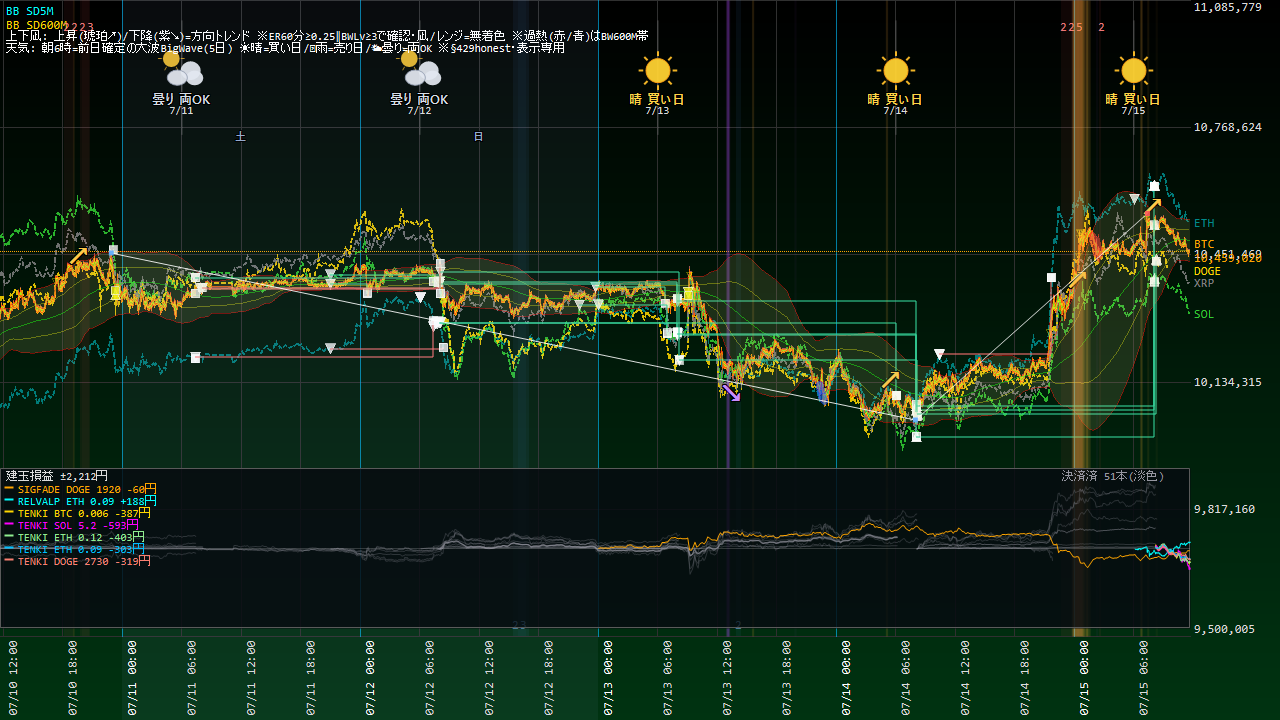
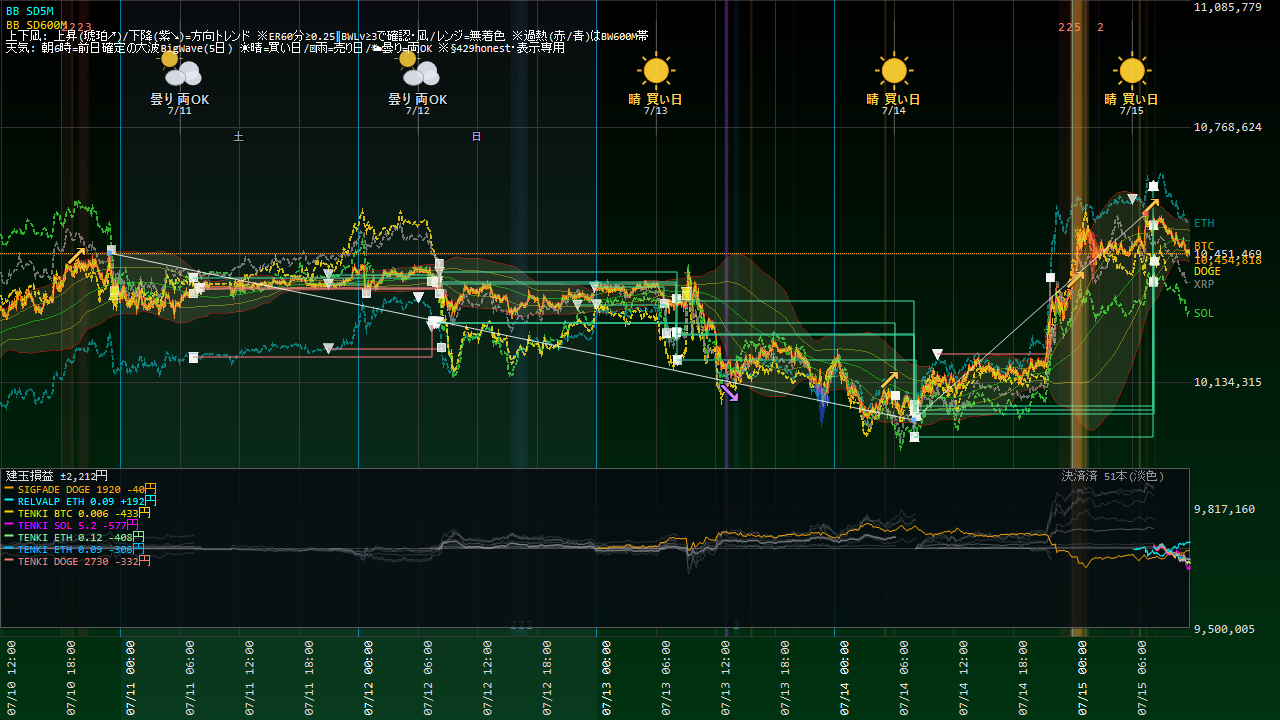
Coin100S 運用状況更新 07-15 11:53

diff --git a/coin100s-795hc4jfv8/index.html b/coin100s-795hc4jfv8/index.html
@@ -14,16 +14,16 @@ a{color:#60a5fa;text-decoration:none} a:hover{text-decoration:underline}
 .meta{color:#94a3b8;font-size:13px}</style>
 <script>setTimeout(function(){location.replace(location.pathname+"?t="+Date.now());},300000);</script></head><body>
 <h1>Coin100S ダッシュボード</h1>
-<p class="meta">スナップショット: 2026-07-15 11:47:04(自動リロード・最新化)</p>
+<p class="meta">スナップショット: 2026-07-15 11:53:04(自動リロード・最新化)</p>
 <div class="cards">
 <div class="card">建玉数<div class="v">7</div></div>
 <div class="card">本日損益<div class="v pos">+7,523円</div></div>
-<div class="card">評価損益<div class="v neg">-1,847円</div></div>
+<div class="card">評価損益<div class="v neg">-1,902円</div></div>
 </div>
 <h2>現在の建玉</h2>
-<table><tr><th>銘柄</th><th>側</th><th>数量</th><th>建値</th><th>含損益</th><th>レッグ</th></tr><tr><td>BTC_JPY</td><td>BUY</td><td>0.006</td><td>@10,526,974</td><td>-387円</td><td>TENKI5D_REV_BTC</td></tr><tr><td>DOGE_JPY</td><td>BUY</td><td>2730</td><td>@12</td><td>-331円</td><td>TENKI5D_REV_DOGE</td></tr><tr><td>DOGE_JPY</td><td>SELL</td><td>1920</td><td>@12</td><td>-29円</td><td>SIGFADE_DOGE</td></tr><tr><td>ETH_JPY</td><td>BUY</td><td>0.09</td><td>@305,729</td><td>-286円</td><td>TENKI5D_REV_ETH</td></tr><tr><td>ETH_JPY</td><td>BUY</td><td>0.12</td><td>@305,723</td><td>-381円</td><td>TENKI5D_REV_ETH</td></tr><tr><td>ETH_JPY</td><td>SELL</td><td>0.09</td><td>@304,456</td><td>+171円</td><td>RELVALP_SELL</td></tr><tr><td>SOL_JPY</td><td>BUY</td><td>5.2</td><td>@12,601</td><td>-604円</td><td>TENKI5D_REV_SOL</td></tr></table>
+<table><tr><th>銘柄</th><th>側</th><th>数量</th><th>建値</th><th>含損益</th><th>レッグ</th></tr><tr><td>BTC_JPY</td><td>BUY</td><td>0.006</td><td>@10,526,974</td><td>-433円</td><td>TENKI5D_REV_BTC</td></tr><tr><td>DOGE_JPY</td><td>BUY</td><td>2730</td><td>@12</td><td>-331円</td><td>TENKI5D_REV_DOGE</td></tr><tr><td>DOGE_JPY</td><td>SELL</td><td>1920</td><td>@12</td><td>-29円</td><td>SIGFADE_DOGE</td></tr><tr><td>ETH_JPY</td><td>BUY</td><td>0.09</td><td>@305,729</td><td>-284円</td><td>TENKI5D_REV_ETH</td></tr><tr><td>ETH_JPY</td><td>BUY</td><td>0.12</td><td>@305,723</td><td>-377円</td><td>TENKI5D_REV_ETH</td></tr><tr><td>ETH_JPY</td><td>SELL</td><td>0.09</td><td>@304,456</td><td>+168円</td><td>RELVALP_SELL</td></tr><tr><td>SOL_JPY</td><td>BUY</td><td>5.2</td><td>@12,601</td><td>-593円</td><td>TENKI5D_REV_SOL</td></tr></table>
 <p><a href="status.html"><b>▶ 運用状況の詳細(チャート・本日の取引・レジーム)</b></a></p>
 <h2>日報一覧</h2>
 <table><tr><th>取引日</th><th>実現損益</th><th>総括</th></tr><tr><td><a href='reports/20260714_Coin100S日報.html'>2026-07-14</a></td><td class="pos">+0円</td><td class='meta'>実取引: 新規6件/決済18件、実現損益 +0円。シグナル却下5件（最多: BW10M3_5M／トレンド方向ゲート(N分傾き上と不一致=逆張り方向のfade禁止)）。⚠警告/エラー 9件（要確認）。</td></tr><tr><td><a href='reports/20260713_Coin100S日報.html'>2026-07-13</a></td><td class="pos">+0円</td><td class='meta'>実取引: 新規5件/決済8件、実現損益 +0円。シグナル却下1件（最多: BW10M3_5M／トレンド方向ゲート(N分傾き上と不一致=逆張り方向のfade禁止)）。警告/孤児/エラーなし＝健全。</td></tr><tr><td><a href='reports/20260712_Coin100S日報.html'>2026-07-12</a></td><td class="pos">+0円</td><td class='meta'>実取引: 新規14件/決済6件、実現損益 +0円。シグナル却下5件（最多: BW10M3_5M／トレンド方向ゲート(N分傾き下と不一致=逆張り方向のfade禁止)）。⚠警告/エラー 2件（要確認）。</td></tr><tr><td><a href='reports/20260711_Coin100S日報.html'>2026-07-11</a></td><td class="pos">+0円</td><td class='meta'>実取引: 新規7件/決済6件、実現損益 +0円。⚠警告/エラー 52件（要確認）。</td></tr><tr><td><a href='reports/20260710_Coin100S日報.html'>2026-07-10</a></td><td class="pos">+0円</td><td class='meta'>実取引: 新規7件/決済6件、実現損益 +0円。シグナル却下6件（最多: BW10M3_5M／トレンド方向ゲート(N分傾き上と不一致=逆張り方向のfade禁止)）。警告/孤児/エラーなし＝健全。</td></tr><tr><td><a href='reports/20260709_Coin100S日報.html'>2026-07-09</a></td><td class="pos">+0円</td><td class='meta'>実取引: 新規8件/決済3件、実現損益 +0円。シグナル却下5件（最多: SD120M_5M／トレンド方向ゲート(N分傾き上と不一致=逆張り方向のfade禁止)）。警告/孤児/エラーなし＝健全。</td></tr><tr><td><a href='reports/20260708_Coin100S日報.html'>2026-07-08</a></td><td class="pos">+0円</td><td class='meta'>実取引: 新規2件/決済4件、実現損益 +0円。シグナル却下4件（最多: SD120M_5M／トレンド方向ゲート(N分傾き下と不一致=逆張り方向のfade禁止)）。警告/孤児/エラーなし＝健全。</td></tr><tr><td><a href='reports/20260707_Coin100S日報.html'>2026-07-07</a></td><td class="pos">+0円</td><td class='meta'>実取引: 新規8件/決済6件、実現損益 +0円。シグナル却下4件（最多: SD120M_5M／トレンド方向ゲート(N分傾き上と不一致=逆張り方向のfade禁止)）。⚠警告/エラー 258件（要確認）。</td></tr><tr><td><a href='reports/20260706_Coin100S日報.html'>2026-07-06</a></td><td class="pos">+0円</td><td class='meta'>実取引: 新規9件/決済6件、実現損益 +0円。シグナル却下9件（最多: SD120M_5M／トレンド方向ゲート(N分傾き上と不一致=逆張り方向のfade禁止)）。⚠警告/エラー 150件（要確認）。</td></tr><tr><td><a href='reports/20260705_Coin100S日報.html'>2026-07-05</a></td><td class="pos">+0円</td><td class='meta'>実取引: 新規8件/決済3件、実現損益 +0円。⚠警告/エラー 2件（要確認）。</td></tr><tr><td><a href='reports/20260704_Coin100S日報.html'>2026-07-04</a></td><td class="pos">+0円</td><td class='meta'>実取引: 新規1件/決済2件、実現損益 +0円。⚠警告/エラー 2件（要確認）。</td></tr><tr><td><a href='reports/20260703_Coin100S日報.html'>2026-07-03</a></td><td class="pos">+0円</td><td class='meta'>実取引: 新規5件/決済4件、実現損益 +0円。⚠警告/エラー 15件（要確認）。</td></tr><tr><td><a href='reports/20260702_Coin100S日報.html'>2026-07-02</a></td><td class="pos">+0円</td><td class='meta'>実取引: 新規7件/決済5件、実現損益 +0円。シグナル却下17件（最多: SD120M_5M／トレンド方向ゲート(N分傾き上と不一致=逆張り方向のfade禁止)）。⚠警告/エラー 26件（要確認）。</td></tr><tr><td><a href='reports/20260701_Coin100S日報.html'>2026-07-01</a></td><td class="pos">+0円</td><td class='meta'>実取引: 新規14件/決済8件、実現損益 +0円。シグナル却下14件（最多: SD120M_5M／ボラ軸ゲート(SDN%&amp;gt;N%=高ボラ/荒れレンジ)）。⚠警告/エラー 2件（要確認）。</td></tr><tr><td><a href='reports/20260630_Coin100S日報.html'>2026-06-30</a></td><td class="pos">+0円</td><td class='meta'>実取引: 新規0件/決済1件、実現損益 +0円。シグナル却下29件（最多: 微5M／当日枠N）。警告/孤児/エラーなし＝健全。</td></tr></table>
-<hr><p class="meta">更新: 2026-07-15 11:47:09 / 自動生成: tools/web_publish.py(§580)</p>
+<hr><p class="meta">更新: 2026-07-15 11:53:12 / 自動生成: tools/web_publish.py(§580)</p>
 </body></html>

diff --git a/coin100s-795hc4jfv8/status.html b/coin100s-795hc4jfv8/status.html
@@ -14,23 +14,23 @@ a{color:#60a5fa;text-decoration:none} a:hover{text-decoration:underline}
 .meta{color:#94a3b8;font-size:13px}</style>
 <script>setTimeout(function(){location.replace(location.pathname+"?t="+Date.now());},300000);</script></head><body>
 <h1>Coin100S 運用状況</h1>
-<p class="meta">スナップショット: 2026-07-15 11:46:34 / ページ生成: 2026-07-15 11:47:09(自動リロード・最新化) / <a href="index.html">目次へ</a></p>
+<p class="meta">スナップショット: 2026-07-15 11:52:35 / ページ生成: 2026-07-15 11:53:12(自動リロード・最新化) / <a href="index.html">目次へ</a></p>
 <div class="cards">
 <div class="card">建玉数<div class="v">7</div></div>
 <div class="card">本日損益<div class="v pos">+7,523円</div></div>
-<div class="card">評価損益<div class="v neg">-1,846円</div></div>
+<div class="card">評価損益<div class="v neg">-1,901円</div></div>
 </div>
 <h2>資産推移(直近30日)</h2>
-<img src="status_equity.png?t=1147" alt="equity">
+<img src="status_equity.png?t=1153" alt="equity">
 <h2>取引チャート(直近24h)</h2>
-<img src="status_chart.png?t=1147" alt="chart">
+<img src="status_chart.png?t=1153" alt="chart">
 <h2>建玉一覧</h2>
-<table><tr><th>銘柄</th><th>側</th><th>数量</th><th>建値</th><th>含損益</th><th>レッグ</th></tr><tr><td>BTC_JPY</td><td>BUY</td><td>0.006</td><td>@10,526,974</td><td>-387円</td><td>TENKI5D_REV_BTC</td></tr><tr><td>DOGE_JPY</td><td>BUY</td><td>2730</td><td>@12</td><td>-358円</td><td>TENKI5D_REV_DOGE</td></tr><tr><td>DOGE_JPY</td><td>SELL</td><td>1920</td><td>@12</td><td>-10円</td><td>SIGFADE_DOGE</td></tr><tr><td>ETH_JPY</td><td>BUY</td><td>0.09</td><td>@305,729</td><td>-286円</td><td>TENKI5D_REV_ETH</td></tr><tr><td>ETH_JPY</td><td>BUY</td><td>0.12</td><td>@305,723</td><td>-381円</td><td>TENKI5D_REV_ETH</td></tr><tr><td>ETH_JPY</td><td>SELL</td><td>0.09</td><td>@304,456</td><td>+171円</td><td>RELVALP_SELL</td></tr><tr><td>SOL_JPY</td><td>BUY</td><td>5.2</td><td>@12,601</td><td>-604円</td><td>TENKI5D_REV_SOL</td></tr></table>
+<table><tr><th>銘柄</th><th>側</th><th>数量</th><th>建値</th><th>含損益</th><th>レッグ</th></tr><tr><td>BTC_JPY</td><td>BUY</td><td>0.006</td><td>@10,526,974</td><td>-432円</td><td>TENKI5D_REV_BTC</td></tr><tr><td>DOGE_JPY</td><td>BUY</td><td>2730</td><td>@12</td><td>-331円</td><td>TENKI5D_REV_DOGE</td></tr><tr><td>DOGE_JPY</td><td>SELL</td><td>1920</td><td>@12</td><td>-29円</td><td>SIGFADE_DOGE</td></tr><tr><td>ETH_JPY</td><td>BUY</td><td>0.09</td><td>@305,729</td><td>-301円</td><td>TENKI5D_REV_ETH</td></tr><tr><td>ETH_JPY</td><td>BUY</td><td>0.12</td><td>@305,723</td><td>-401円</td><td>TENKI5D_REV_ETH</td></tr><tr><td>ETH_JPY</td><td>SELL</td><td>0.09</td><td>@304,456</td><td>+186円</td><td>RELVALP_SELL</td></tr><tr><td>SOL_JPY</td><td>BUY</td><td>5.2</td><td>@12,601</td><td>-593円</td><td>TENKI5D_REV_SOL</td></tr></table>
 <h2>実現決済履歴(直近15件・OrderId単位)</h2>
 <table><tr><th>決済時刻</th><th>レッグ</th><th>銘柄</th><th>実現損益</th></tr><tr><td>07-15 08:18</td><td>TENKI5D_REV_DOGE</td><td>DOGE</td><td class="pos">+858円</td></tr><tr><td>07-15 08:09</td><td>TENKI5D_REV_ETH</td><td>ETH</td><td class="pos">+601円</td></tr><tr><td>07-15 08:09</td><td>TENKI5D_REV_ETH</td><td>ETH</td><td class="pos">+2,402円</td></tr><tr><td>07-15 08:09</td><td>TENKI5D_REV_SOL</td><td>SOL</td><td class="pos">+1,812円</td></tr><tr><td>07-15 08:09</td><td>TENKI5D_REV_BTC</td><td>BTC</td><td class="pos">+1,850円</td></tr><tr><td>07-14 21:47</td><td>SIGFADE_ETH</td><td>ETH</td><td class="neg">-350円</td></tr><tr><td>07-14 21:47</td><td>SIGFADE_ETH</td><td>ETH</td><td class="neg">-141円</td></tr><tr><td>07-14 08:15</td><td>TENKI5D_REV_DOGE</td><td>DOGE</td><td class="pos">+267円</td></tr><tr><td>07-14 08:06</td><td>TENKI5D_REV_SOL</td><td>SOL</td><td class="pos">+1,011円</td></tr><tr><td>07-14 08:06</td><td>TENKI5D_REV_BTC</td><td>BTC</td><td class="pos">+819円</td></tr><tr><td>07-14 08:06</td><td>TENKI5D_REV_ETH</td><td>ETH</td><td class="pos">+826円</td></tr><tr><td>07-14 06:08</td><td>RELVALP_SELL</td><td>ETH</td><td class="pos">+89円</td></tr><tr><td>07-14 06:08</td><td>RELVALP_SELL</td><td>ETH</td><td class="pos">+357円</td></tr><tr><td>07-14 06:08</td><td>RELVALP_SELL</td><td>ETH</td><td class="pos">+314円</td></tr><tr><td>07-14 06:08</td><td>RELVALP_SELL</td><td>ETH</td><td class="pos">+328円</td></tr></table>
 <h2>本取引日の実取引(6:00起点)</h2>
 <table><tr><th>時刻</th><th>種別</th><th>側</th><th>銘柄</th><th>数量</th><th>指値</th></tr><tr><td>06:06:03</td><td>新規</td><td>SELL</td><td>ETH_JPY</td><td>0.09</td><td>304,306</td></tr><tr><td>06:06:07</td><td>新規</td><td>SELL</td><td>ETH_JPY</td><td>0.09</td><td>304,306</td></tr><tr><td>08:09:03</td><td>決済</td><td>SELL</td><td>BTC_JPY</td><td>0.004</td><td>10,494,575</td></tr><tr><td>08:09:03</td><td>決済</td><td>SELL</td><td>ETH_JPY</td><td>0.12</td><td>304,739</td></tr><tr><td>08:09:03</td><td>決済</td><td>SELL</td><td>SOL_JPY</td><td>3.6</td><td>12,554</td></tr><tr><td>08:09:05</td><td>決済</td><td>SELL</td><td>ETH_JPY</td><td>0.03</td><td>304,727</td></tr><tr><td>08:09:07</td><td>決済</td><td>SELL</td><td>BTC_JPY</td><td>0.004</td><td>10,494,575</td></tr><tr><td>08:09:08</td><td>決済</td><td>SELL</td><td>ETH_JPY</td><td>0.12</td><td>304,739</td></tr><tr><td>08:09:09</td><td>決済</td><td>SELL</td><td>SOL_JPY</td><td>3.6</td><td>12,554</td></tr><tr><td>08:09:14</td><td>決済</td><td>SELL</td><td>ETH_JPY</td><td>0.03</td><td>304,727</td></tr><tr><td>08:10:03</td><td>新規</td><td>BUY</td><td>BTC_JPY</td><td>0.006</td><td>10,532,171</td></tr><tr><td>08:10:03</td><td>新規</td><td>BUY</td><td>ETH_JPY</td><td>0.21</td><td>305,838</td></tr><tr><td>08:10:03</td><td>新規</td><td>BUY</td><td>SOL_JPY</td><td>5.2</td><td>12,608</td></tr><tr><td>08:10:15</td><td>新規</td><td>BUY</td><td>BTC_JPY</td><td>0.006</td><td>10,532,171</td></tr><tr><td>08:10:20</td><td>新規</td><td>BUY</td><td>ETH_JPY</td><td>0.21</td><td>305,838</td></tr><tr><td>08:10:22</td><td>新規</td><td>BUY</td><td>SOL_JPY</td><td>5.2</td><td>12,608</td></tr><tr><td>08:18:03</td><td>決済</td><td>SELL</td><td>DOGE_JPY</td><td>1890</td><td>12</td></tr><tr><td>08:19:03</td><td>新規</td><td>BUY</td><td>DOGE_JPY</td><td>2730</td><td>13</td></tr></table>
 <h2>現在レジーム(3軸・§570c)</h2>
-<ul><li>アルト対BTC 5日: <b>+0bps</b>(アルト優越=RELVAL逆風)</li><li>BTC ER240m: <b>0.107</b>(閾値0.25→レンジ(fade順風/BWTRD逆風))</li><li>BTC実現ボラ240m: <b>3.21</b> bps/分</li></ul>
+<ul><li>アルト対BTC 5日: <b>+0bps</b>(アルト優越=RELVAL逆風)</li><li>BTC ER240m: <b>0.126</b>(閾値0.25→レンジ(fade順風/BWTRD逆風))</li><li>BTC実現ボラ240m: <b>3.19</b> bps/分</li></ul>
 <hr><p class="meta">自動生成: tools/web_publish.py(§580・読み取り専用)。売買判断はアプリ本体。</p>
 </body></html>
